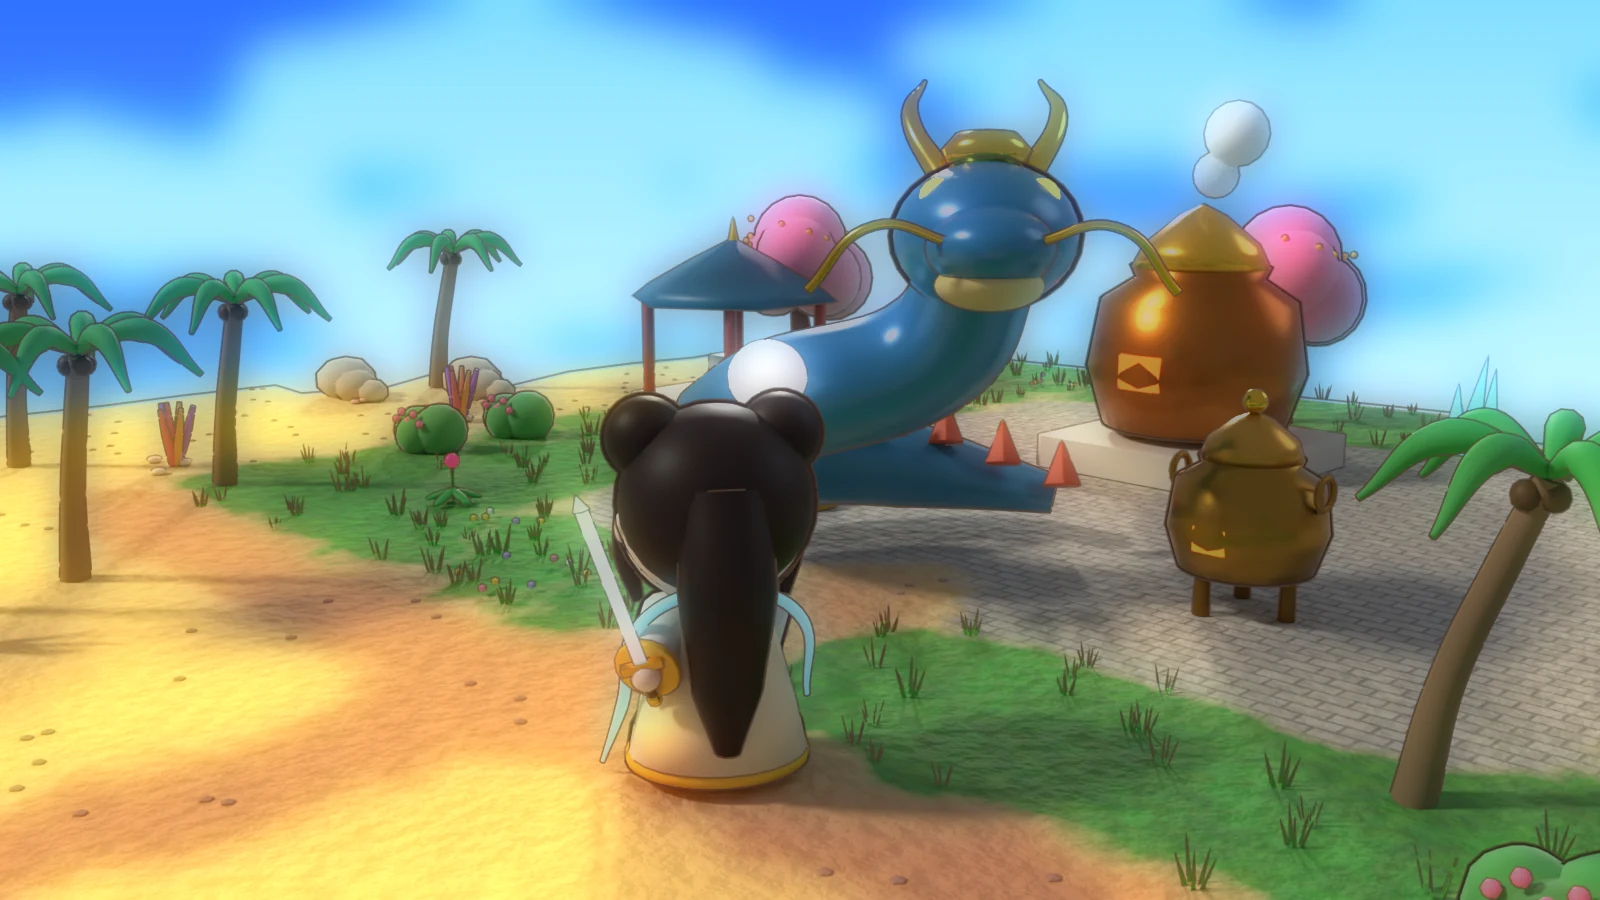
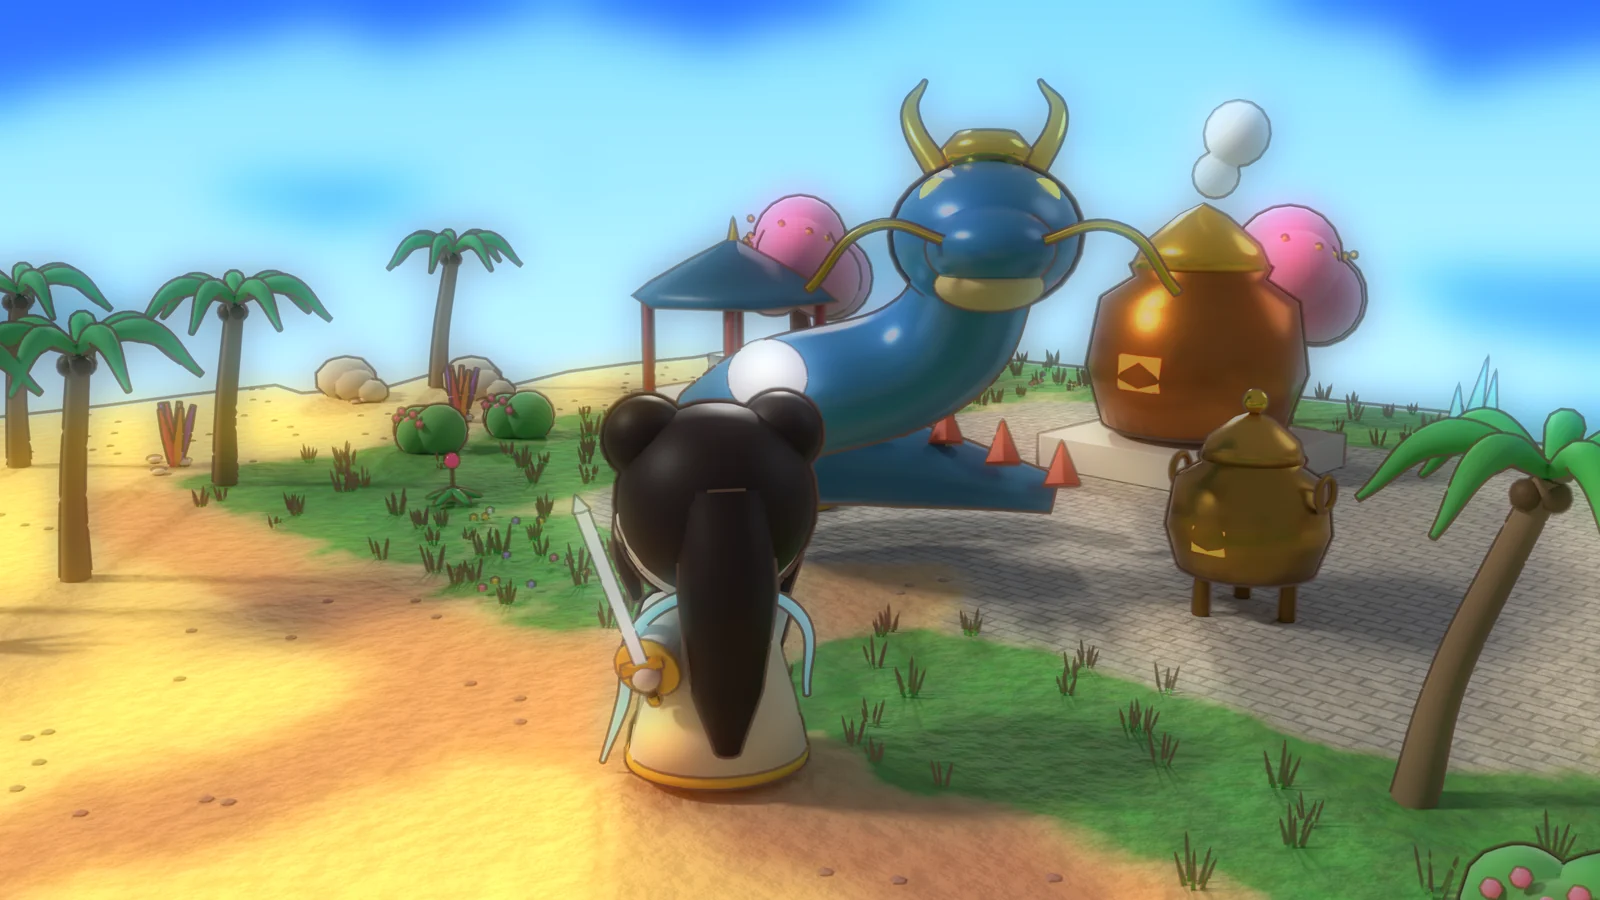
README: HD pack, 23 CGs, VFX flipbooks

diff --git a/README.md b/README.md
@@ -12,6 +12,7 @@
 - 游戏内置“检查更新”：联网时启动游戏会自动检查 GitHub 最新版本，发现新版本会弹出“发现新版本”提示，点“立即下载”即可；离线时不会打扰你。
 - 历史版本与更新说明：https://github.com/xiemingxin1145/wobuxian/releases
 - 每次向 `main` 推送代码，GitHub Actions 都会自动构建、签名并发布新的 APK（版本号自动递增）。
+- 安装包约 **200MB**（高清版：2 倍分辨率无损角色图集、2 倍地图、2560×1440 剧情插画、高码率立体声音乐），请在 Wi-Fi 下下载。
 
 ---
 
@@ -23,6 +24,8 @@
 
 ## 2.1 新内容
 
+- **23 张 3D 剧情/结局插画**：每个章节和每种结局都有一张 Blender 透视场景渲染的插画（2560×1440），结局画面以插画为背景，并收录进“回忆图鉴”。
+- **技能序列帧特效**：火、冰、雷、剑气、圣光、魔气、治疗、护盾、水、毒、地震、血 12 类 16 帧特效叠加在原有粒子之上。
 - **更长的主线**：15 个命名章节（序章·上门讨债 → 剑仙路过 → 拜入仙门 → 宿敌龙傲天 → 坊市风云 → … → 讨债司判官 → 对账天道），每个大境界都有自己的故事；章节开启时播放 **3D 剧情插画过场**，可在“回忆图鉴”中重温。
 - **更多角色**：新增宿敌龙傲天、剑客柳如烟、书生白玉郎、冷月仙子、黑心长老、天道保险·保真人、孟婆、月老、讨债司判官、路人甲、说书先生、茶馆小二、药铺掌柜、百草谷主等全新 3D 建模角色，每人都有闲聊、好感、送礼偏好和 **多段任务链**。
 - **318 个人生事件**（新增 165 个，覆盖各地图、各境界与新角色）、**44 个支线任务**、**16 种结局**（新增宿敌、判官、说书人、钓鱼成仙、保险理赔、孟婆、茶馆等）。
@@ -31,6 +34,14 @@
 - **画面升级**：2 倍分辨率 + 卡通描边 + 轮廓光的角色精灵；云海、天气（桃花雨、雨、雪、薄雾、余烬）、季节与昼夜色调、水面波光、熔岩辉光、境界灵光；**天劫突破演出**（雷光、金柱、震屏）、**技能特写**、抽卡动画；玉/金描边的界面、按钮流光与弹出动效。
 - **音乐音效升级**：44.1kHz 立体声 BGM（二胡/笛子/古筝/琵琶/鼓，AB 两段），新增抽卡、章节、突破音效和共振峰合成的“喝！”“哈！”等人声感音效。
 - **稳定性**：多世轮回机器人自动测试（JS 错误、卡死、NaN、存档读档一致性、返回键）、360×640 与 412×915 界面检查。
+
+## 高清资源包是怎么进 APK 的
+
+为了让仓库保持轻量（git 中只有缩小版资源，单文件远小于 100MB），高清资源不提交到 git：
+
+1. 本地用 Blender 渲染 2 倍分辨率素材，`tools/make_hd_bundle.sh upload` 以 `WBX_PROFILE=hd` 重新打包（无损 webp 图集、2 倍地图、原尺寸插画、384px 特效、q8 音频），上传到 Release **`assets-hd`**（预发布，不影响 latest），并把文件名和 sha256 写入 `hd-assets.json`；
+2. CI 构建前按 `hd-assets.json` 下载并校验 sha256，覆盖 `www/assets` 后再打包签名，所以发布的 APK 永远是高清完整版；
+3. 没有 `hd-assets.json` 时 CI 会用仓库内的轻量资源构建（约 40MB）。
 
 ## 2.0 内容回顾
 
